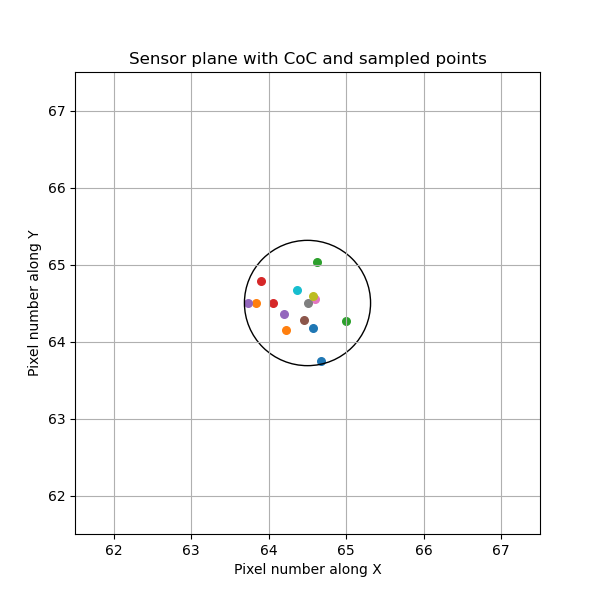
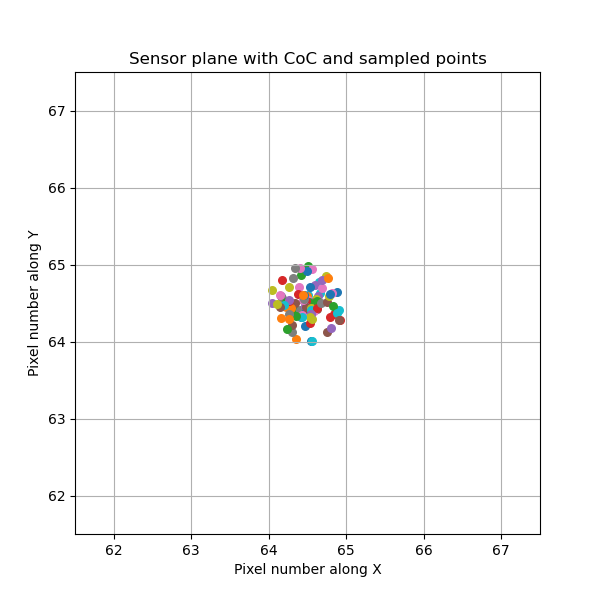
'update'

Changed region(s): [[0.39, 0.39, 0.63, 0.63], [0.57, 0.57, 0.6, 0.6], [0.57, 0.42, 0.6, 0.45]]

diff --git a/run.py b/run.py
@@ -13,7 +13,6 @@ from utils import Biconvex, Ray
 def plot_psf(lens, name='output.png'):
     
     delta_h = lens.delta_h  # size of each pixel (h/M)
-    r_CoC = 0.5*lens.d_CoC/delta_h # Radius of the CoC normaized by pixel width
           
     # Object is located at distance D, and aperture lens is OD
     # Maximum angle for ray is given by
@@ -52,10 +51,8 @@ def plot_psf(lens, name='output.png'):
         
     fig, ax = plt.subplots()
         
-    # Plot circle of confusion on sensor plane
-    ax.add_patch(plt.Circle(center, r_CoC, fill=False))  
-        
-
+ 
+    
     # We want to represent sensor plane in 2D
     # We assign a random angle to each image
     angles = list((np.linspace(0, 2*np.pi, lens.N)))

diff --git a/README.md b/README.md
@@ -12,7 +12,7 @@ python run.py --D 125  --R1 50  --T 5 --R2 50 --OD 12.1   --D2 70  --_lambda 500
 
 The wavelength _lambda is in nm and the parameters D, R1, T, R2, OD, D2, h are in mm. Default values are in the file run.py (See function main())
 
-The output is a file 'tests.png' in the same folder.
+The output is a file 'psf.png' in the same folder.
 
 ## Analysis
 
